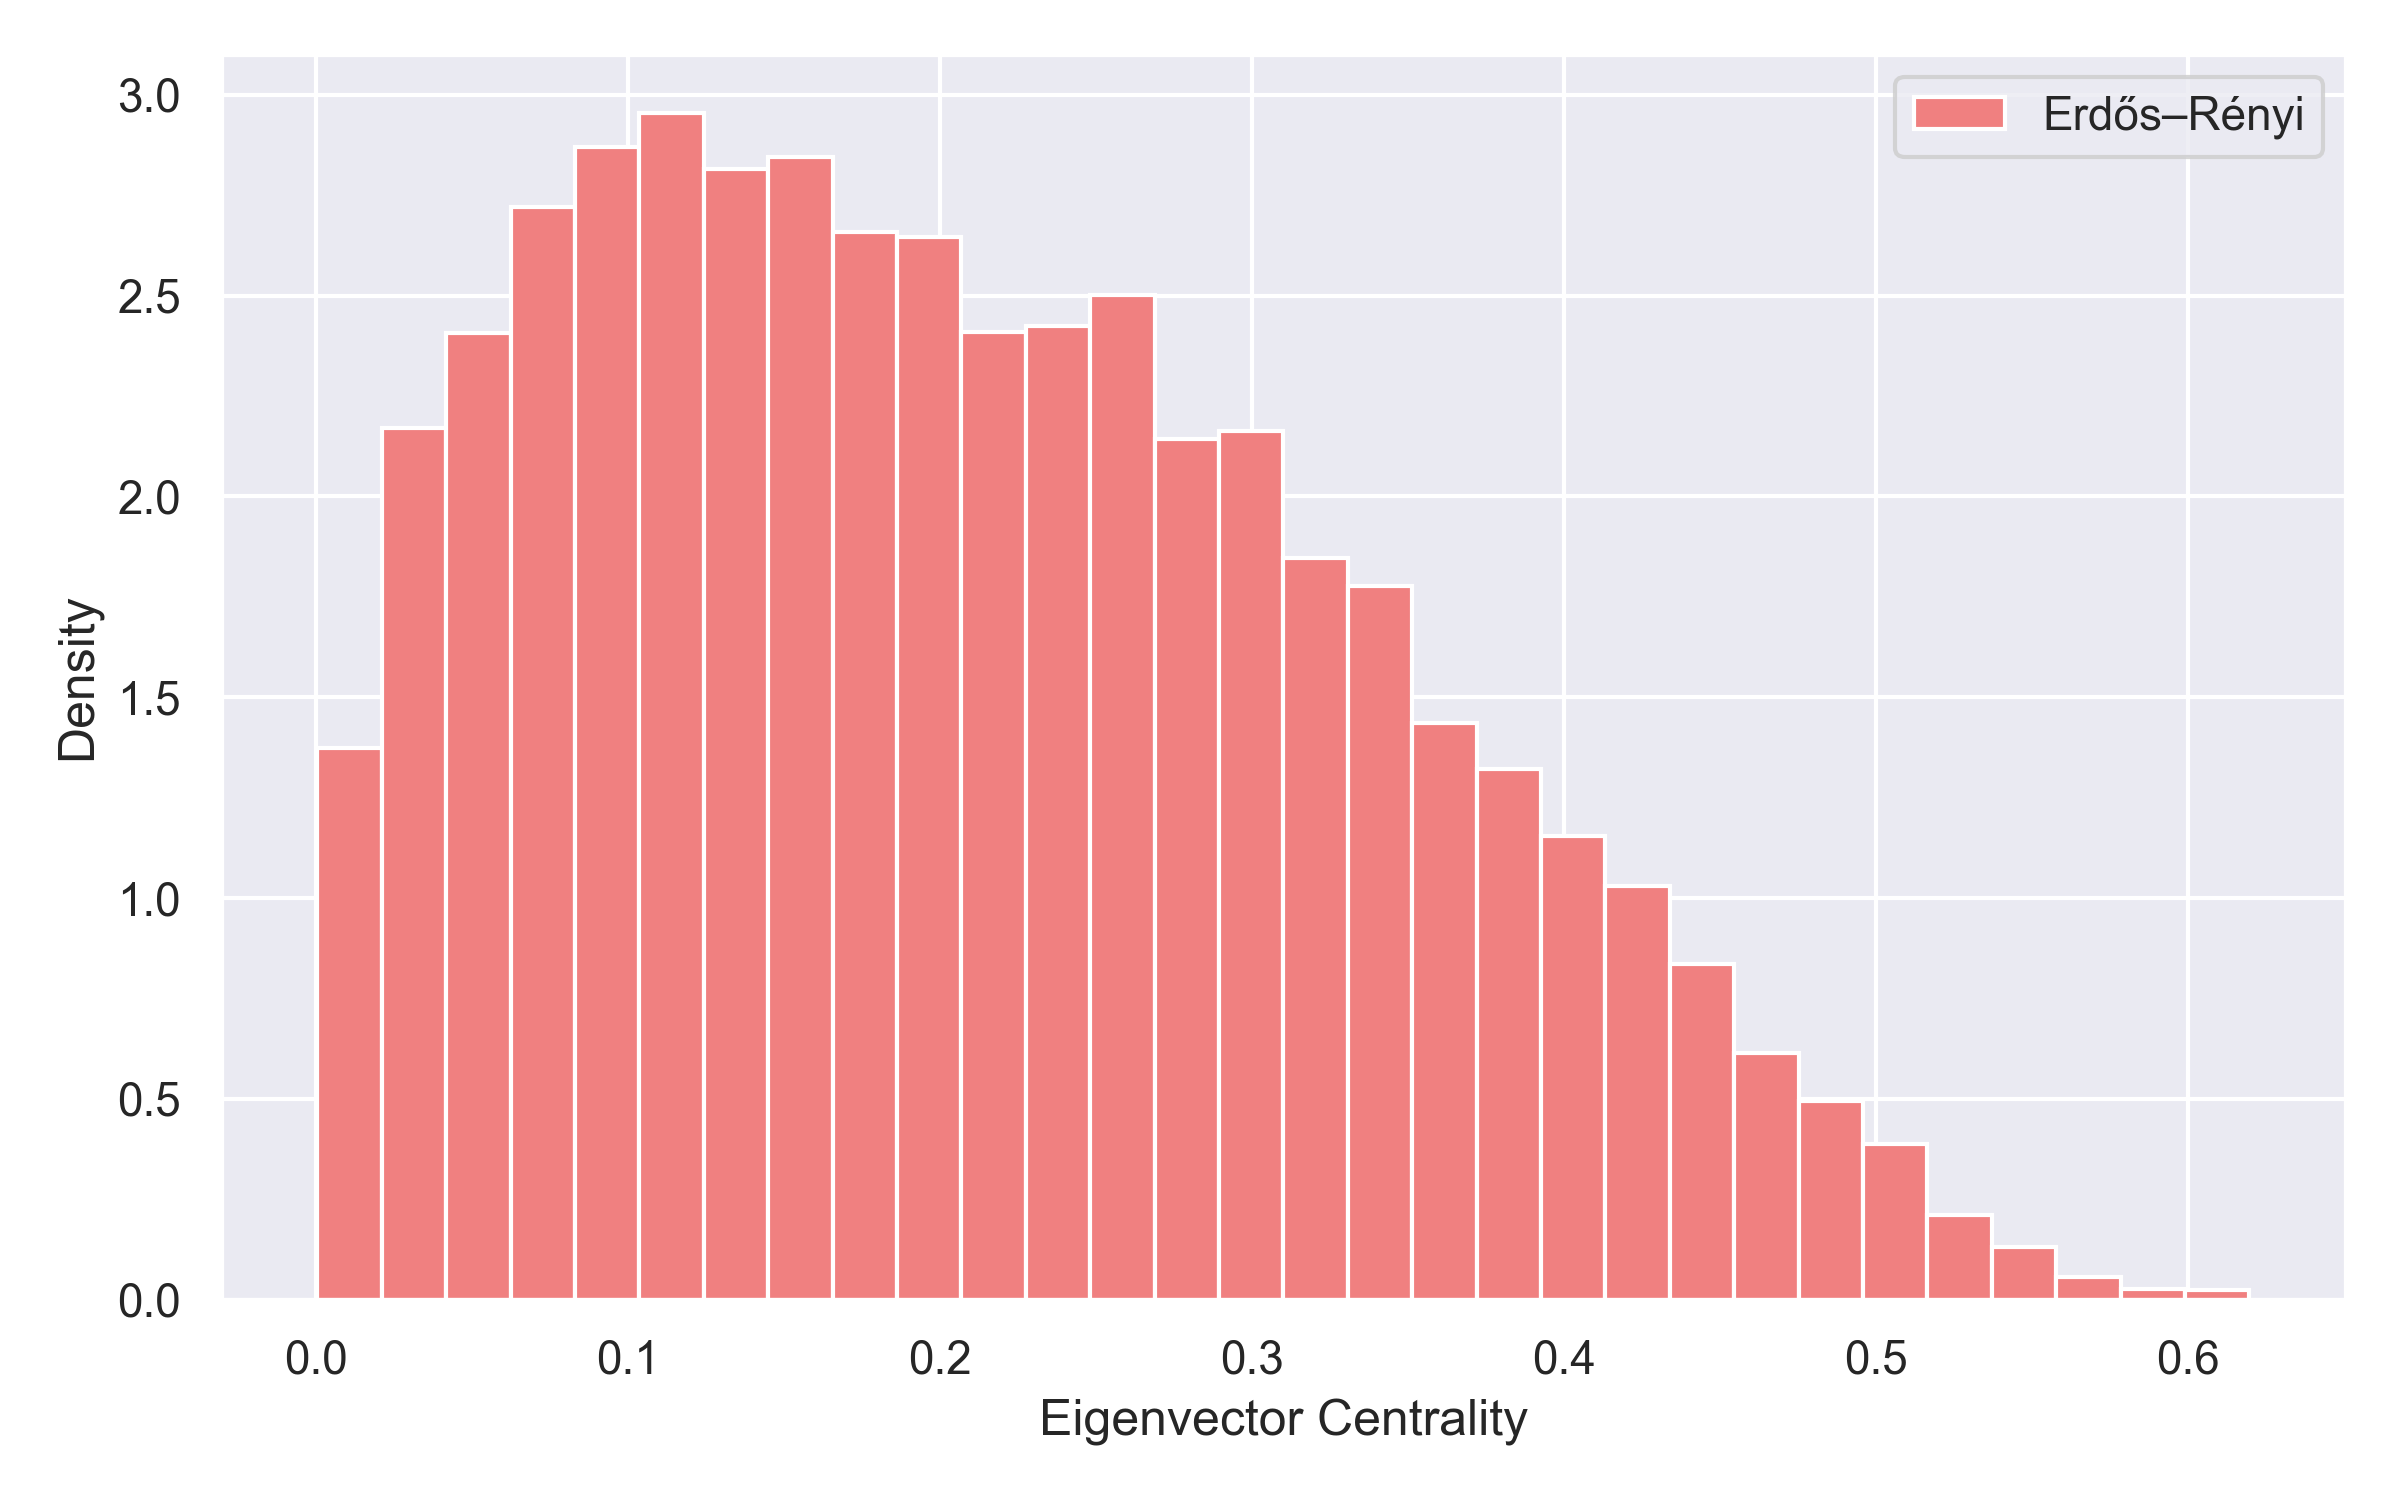
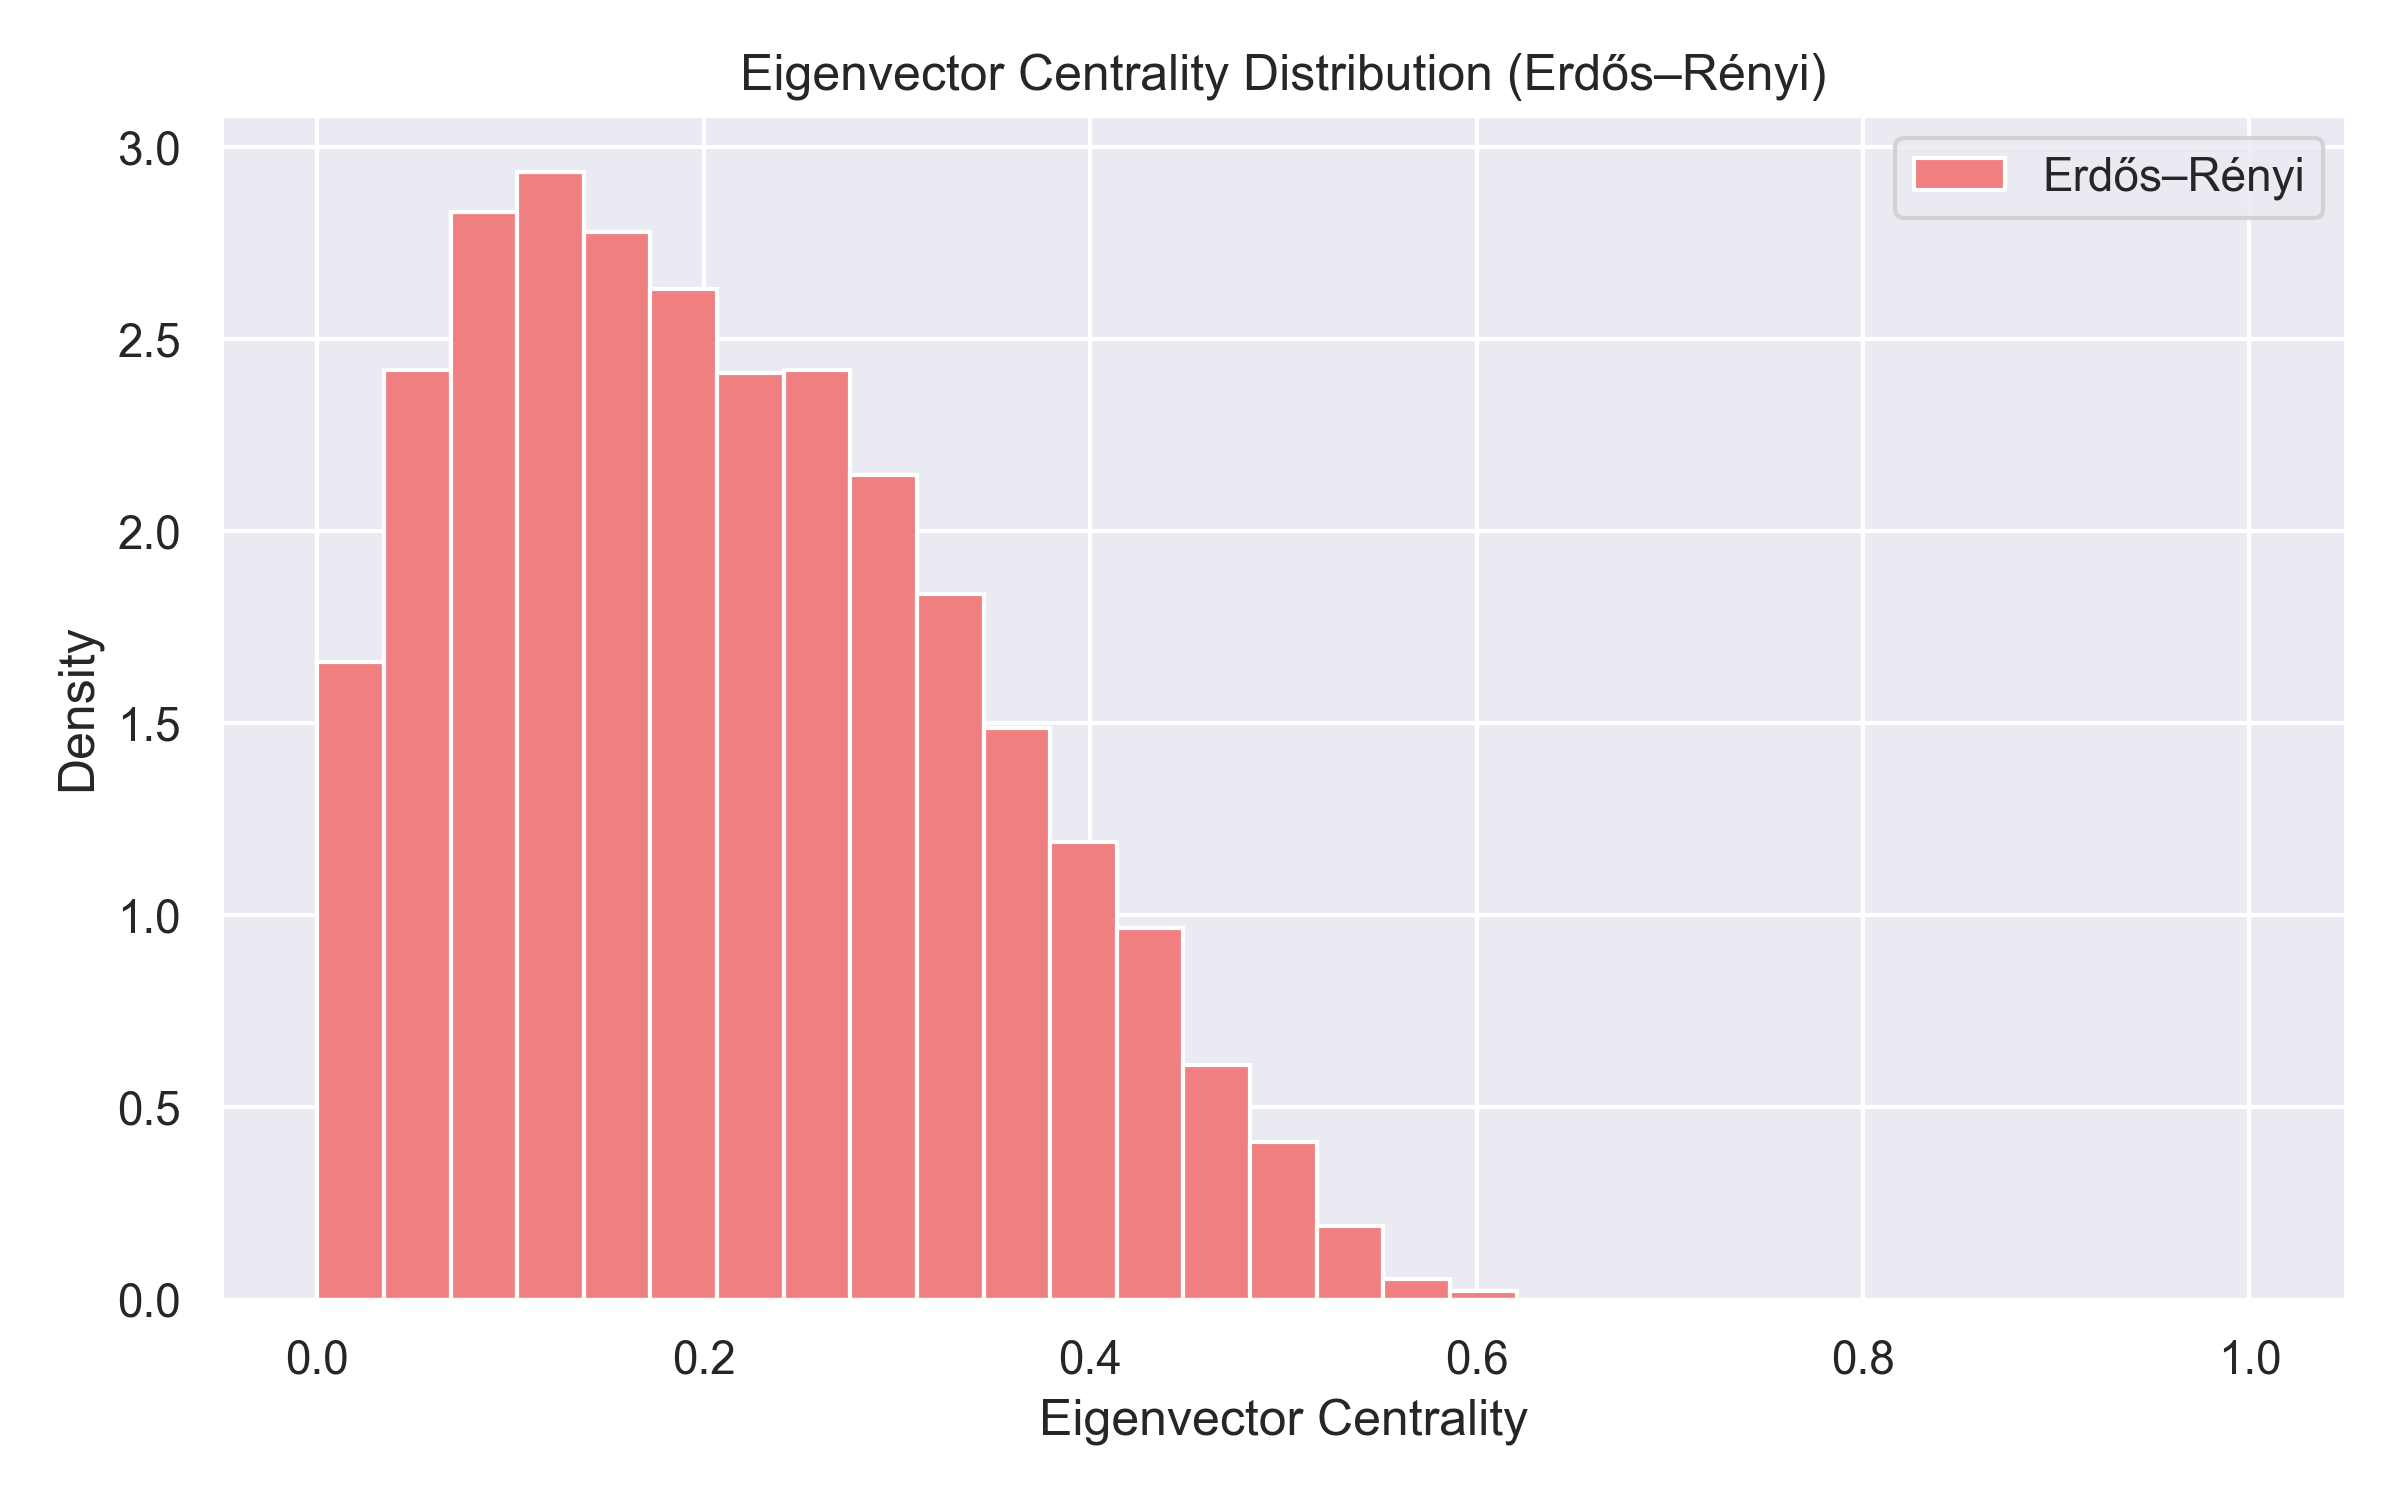
fix: share bins for each statistic

diff --git a/evaluation/statistics.py b/evaluation/statistics.py
@@ -38,88 +38,138 @@ def compute_graph_statistics(graphs: List[nx.Graph]) -> Dict[str, np.ndarray]:
     }
 
 
-def plot_statistic_comparisons(
-    empirical_stats: Dict[str, np.ndarray],
-    er_stats: Optional[Dict[str, np.ndarray]] = None,
-    gnn_stats: Optional[Dict[str, np.ndarray]] = None,
-    save_path: Optional[str] = None,
-):
-    """
-    Plots histograms of degree, clustering coefficient, and eigenvector centrality
-    for empirical, Erdős–Rényi, and generative model graphs.
+# def plot_statistic_comparisons(
+#     empirical_stats: Dict[str, np.ndarray],
+#     er_stats: Optional[Dict[str, np.ndarray]] = None,
+#     gnn_stats: Optional[Dict[str, np.ndarray]] = None,
+#     save_path: Optional[str] = None,
+# ):
+#     """
+#     Plots histograms of degree, clustering coefficient, and eigenvector centrality
+#     for empirical, Erdős–Rényi, and generative model graphs.
 
-    Optionally saves the plots to disk.
-    """
-    stats = ["degree", "clustering", "eigenvector_centrality"]
-    titles = ["Node Degree", "Clustering Coefficient", "Eigenvector Centrality"]
+#     Optionally saves the plots to disk.
+#     """
+#     stats = ["degree", "clustering", "eigenvector_centrality"]
+#     titles = ["Node Degree", "Clustering Coefficient", "Eigenvector Centrality"]
 
-    for stat, title in zip(stats, titles):
-        plt.figure(figsize=(8, 5))
+#     for stat, title in zip(stats, titles):
+#         plt.figure(figsize=(8, 5))
 
-        if len(empirical_stats[stat]) > 0:
-            plt.hist(
-                empirical_stats[stat],
-                bins=30,
-                alpha=0.5,
-                label="Empirical (MUTAG)",
-                density=True,
-            )
-        else:
-            logger.warning(f"Empirical (MUTAG) {title} is empty")
+#         if len(empirical_stats[stat]) > 0:
+#             plt.hist(
+#                 empirical_stats[stat],
+#                 bins=30,
+#                 alpha=0.5,
+#                 label="Empirical (MUTAG)",
+#                 density=True,
+#             )
+#         else:
+#             logger.warning(f"Empirical (MUTAG) {title} is empty")
 
-        if er_stats and len(er_stats[stat]) > 0:
-            plt.hist(
-                er_stats[stat], bins=30, alpha=0.5, label="Erdős–Rényi", density=True
-            )
-        else:
-            logger.warning(f"Erdős–Rényi {title} is empty")
+#         if er_stats and len(er_stats[stat]) > 0:
+#             plt.hist(
+#                 er_stats[stat], bins=30, alpha=0.5, label="Erdős–Rényi", density=True
+#             )
+#         else:
+#             logger.warning(f"Erdős–Rényi {title} is empty")
 
-        if gnn_stats and len(gnn_stats[stat]) > 0:
-            plt.hist(
-                gnn_stats[stat],
-                bins=30,
-                alpha=0.5,
-                label="Generative Model",
-                density=True,
-            )
-        else:
-            logger.warning(f"Generative Model {title} is empty")
+#         if gnn_stats and len(gnn_stats[stat]) > 0:
+#             plt.hist(
+#                 gnn_stats[stat],
+#                 bins=30,
+#                 alpha=0.5,
+#                 label="Generative Model",
+#                 density=True,
+#             )
+#         else:
+#             logger.warning(f"Generative Model {title} is empty")
 
-        plt.title(f"Distribution of {title}")
-        plt.xlabel(title)
-        plt.ylabel("Density")
-        plt.legend()
-        plt.grid(True)
-        plt.tight_layout()
+#         plt.title(f"Distribution of {title}")
+#         plt.xlabel(title)
+#         plt.ylabel("Density")
+#         plt.legend()
+#         plt.grid(True)
+#         plt.tight_layout()
 
-        if save_path:
-            filename = f"{stat}_distribution.png"
-            plt.savefig(f"{save_path}/{filename}")
-        else:
-            plt.show()
+#         if save_path:
+#             filename = f"{stat}_distribution.png"
+#             plt.savefig(f"{save_path}/{filename}")
+#         else:
+#             plt.show()
 
+
+# def plot_graph_statistics(
+#     data: Dict[str, np.ndarray], name: str, color: str, save_path: Optional[str] = None
+# ):
+#     """
+#     Plots histograms of degree, clustering coefficient, and eigenvector centrality
+
+#     Optionally saves the plots to disk.
+#     """
+#     stats = ["degree", "clustering", "eigenvector_centrality"]
+#     titles = ["Node Degree", "Clustering Coefficient", "Eigenvector Centrality"]
+
+#     for stat, title in zip(stats, titles):
+#         plt.figure(figsize=(8, 5))
+
+#         if len(data[stat]) > 0:
+#             plt.hist(
+#                 data[stat], bins=30, alpha=1, label=name, density=True, color=color
+#             )
+#         else:
+#             logger.warning(f"statistic {title} for {name} is empty")
+
+#         plt.xlabel(title)
+#         plt.ylabel("Density")
+#         plt.legend()
+#         plt.grid(True)
+#         plt.tight_layout()
+
+#         if save_path:
+#             filename = f"{stat}_distribution.png"
+#             plt.savefig(f"{save_path}/{filename}", dpi=300)
+#         else:
+#             plt.show()
 
 def plot_graph_statistics(
     data: Dict[str, np.ndarray], name: str, color: str, save_path: Optional[str] = None
 ):
     """
     Plots histograms of degree, clustering coefficient, and eigenvector centrality
+    with consistent bin edges for each metric.
 
     Optionally saves the plots to disk.
     """
+    import numpy as np
+    import matplotlib.pyplot as plt
+
     stats = ["degree", "clustering", "eigenvector_centrality"]
     titles = ["Node Degree", "Clustering Coefficient", "Eigenvector Centrality"]
+
+    # Define shared bin edges for each metric
+    bins_dict = {
+        "degree": np.linspace(0, 10, 30),                
+        "clustering": np.linspace(0, 1, 30),            
+        "eigenvector_centrality": np.linspace(0, 1, 30) 
+    }
 
     for stat, title in zip(stats, titles):
         plt.figure(figsize=(8, 5))
 
         if len(data[stat]) > 0:
             plt.hist(
-                data[stat], bins=30, alpha=1, label=name, density=True, color=color
+                data[stat],
+                bins=bins_dict[stat],
+                alpha=1,
+                label=name,
+                density=True,
+                color=color,
             )
         else:
             logger.warning(f"statistic {title} for {name} is empty")
 
+        plt.title(f"{title} Distribution ({name})")
         plt.xlabel(title)
         plt.ylabel("Density")
         plt.legend()
